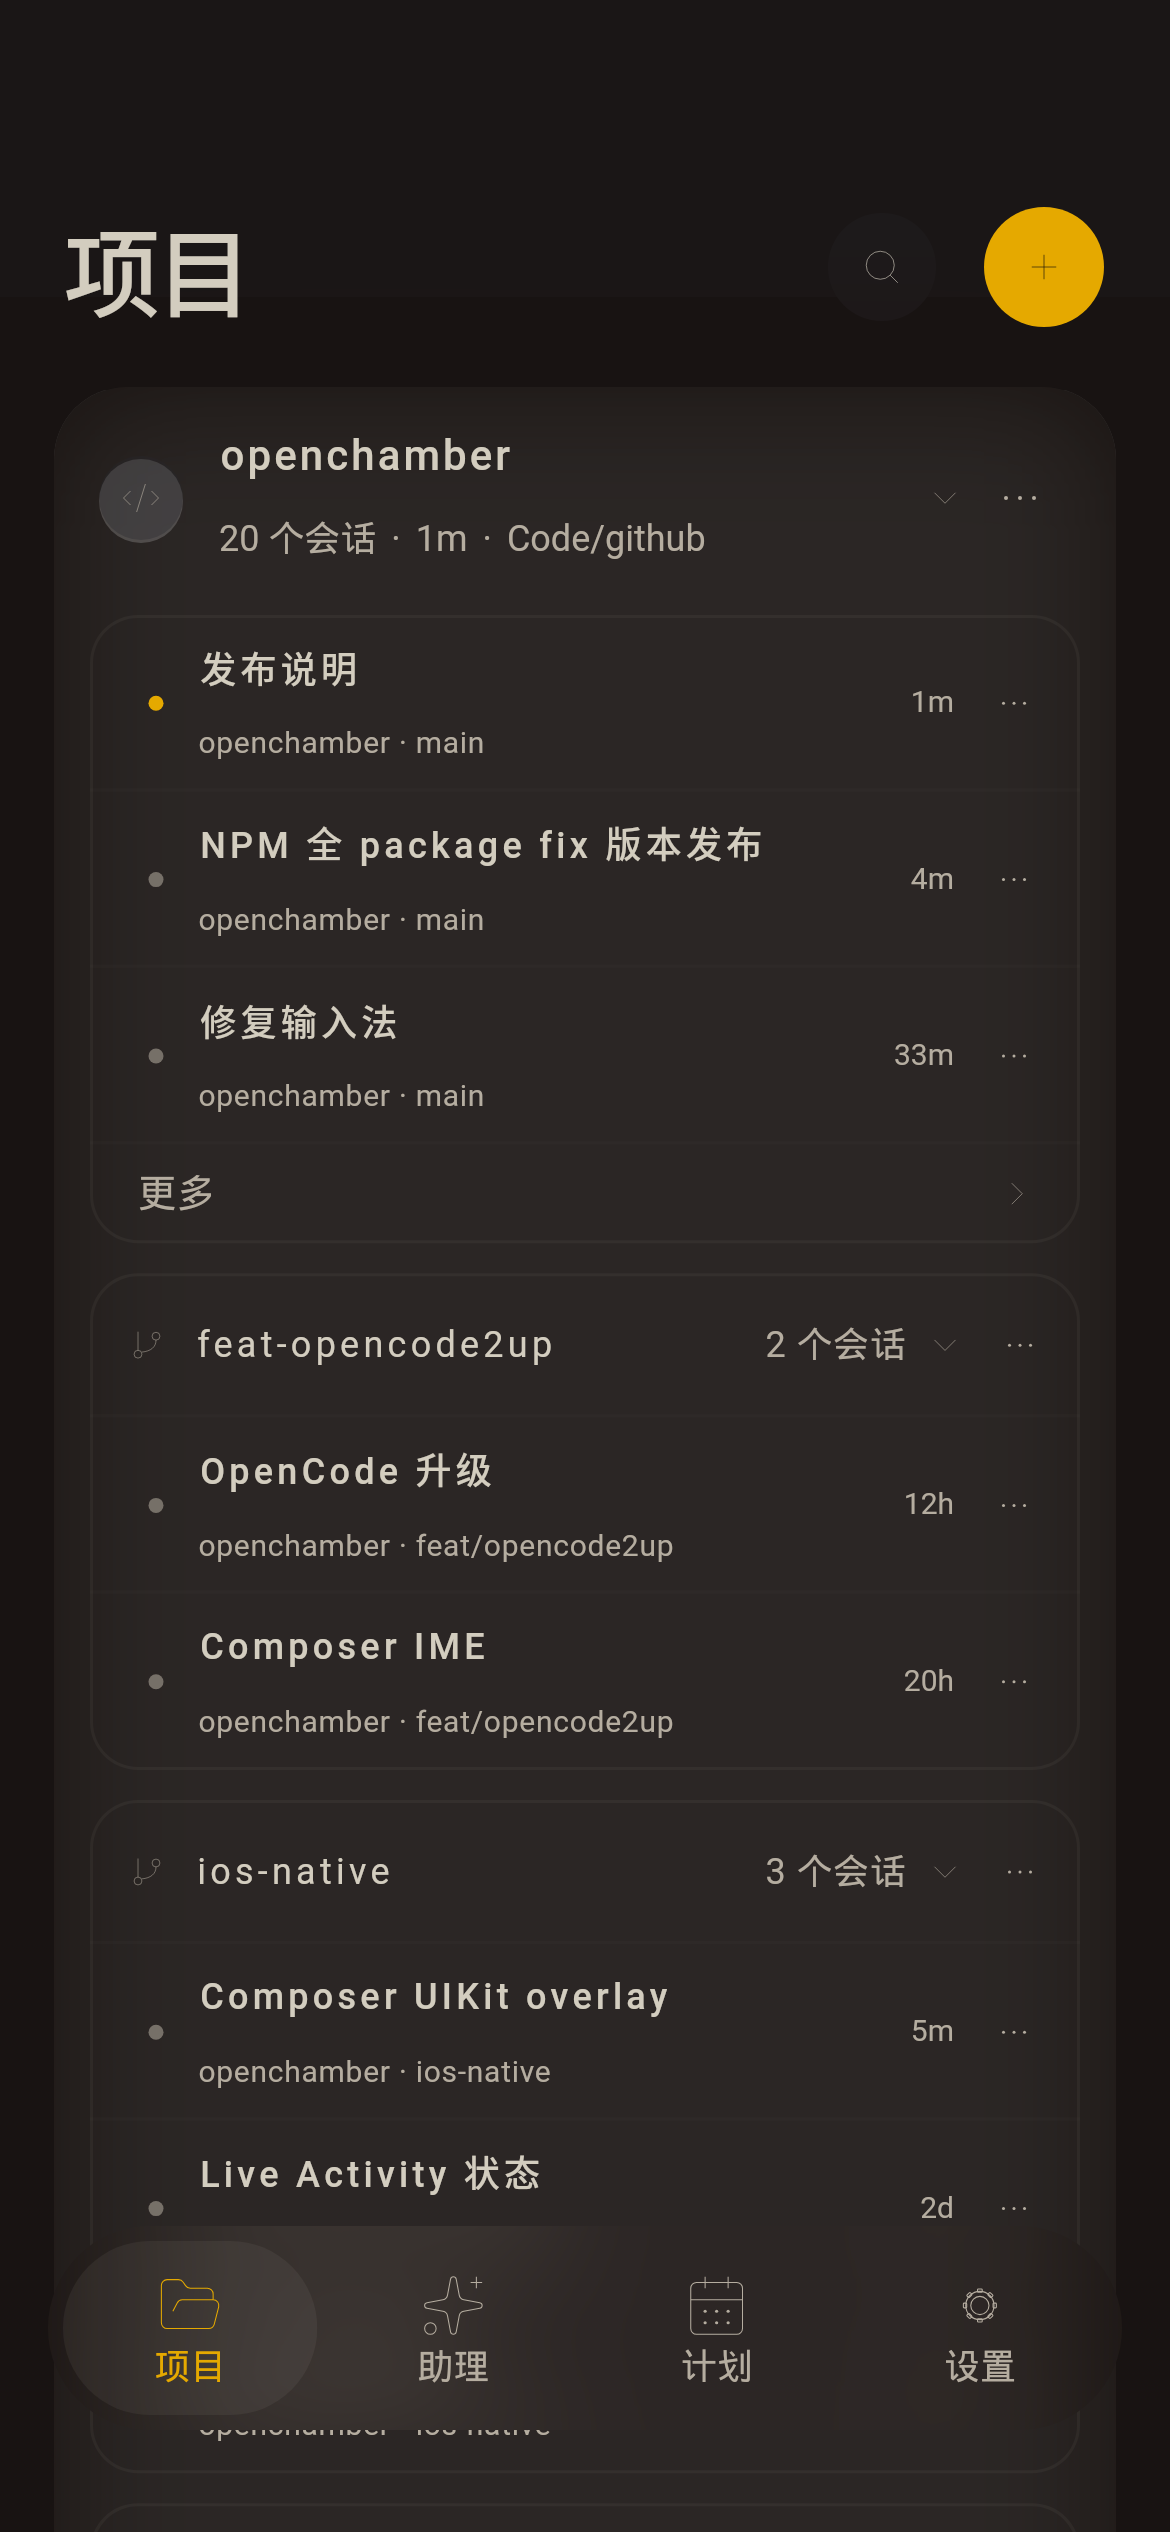
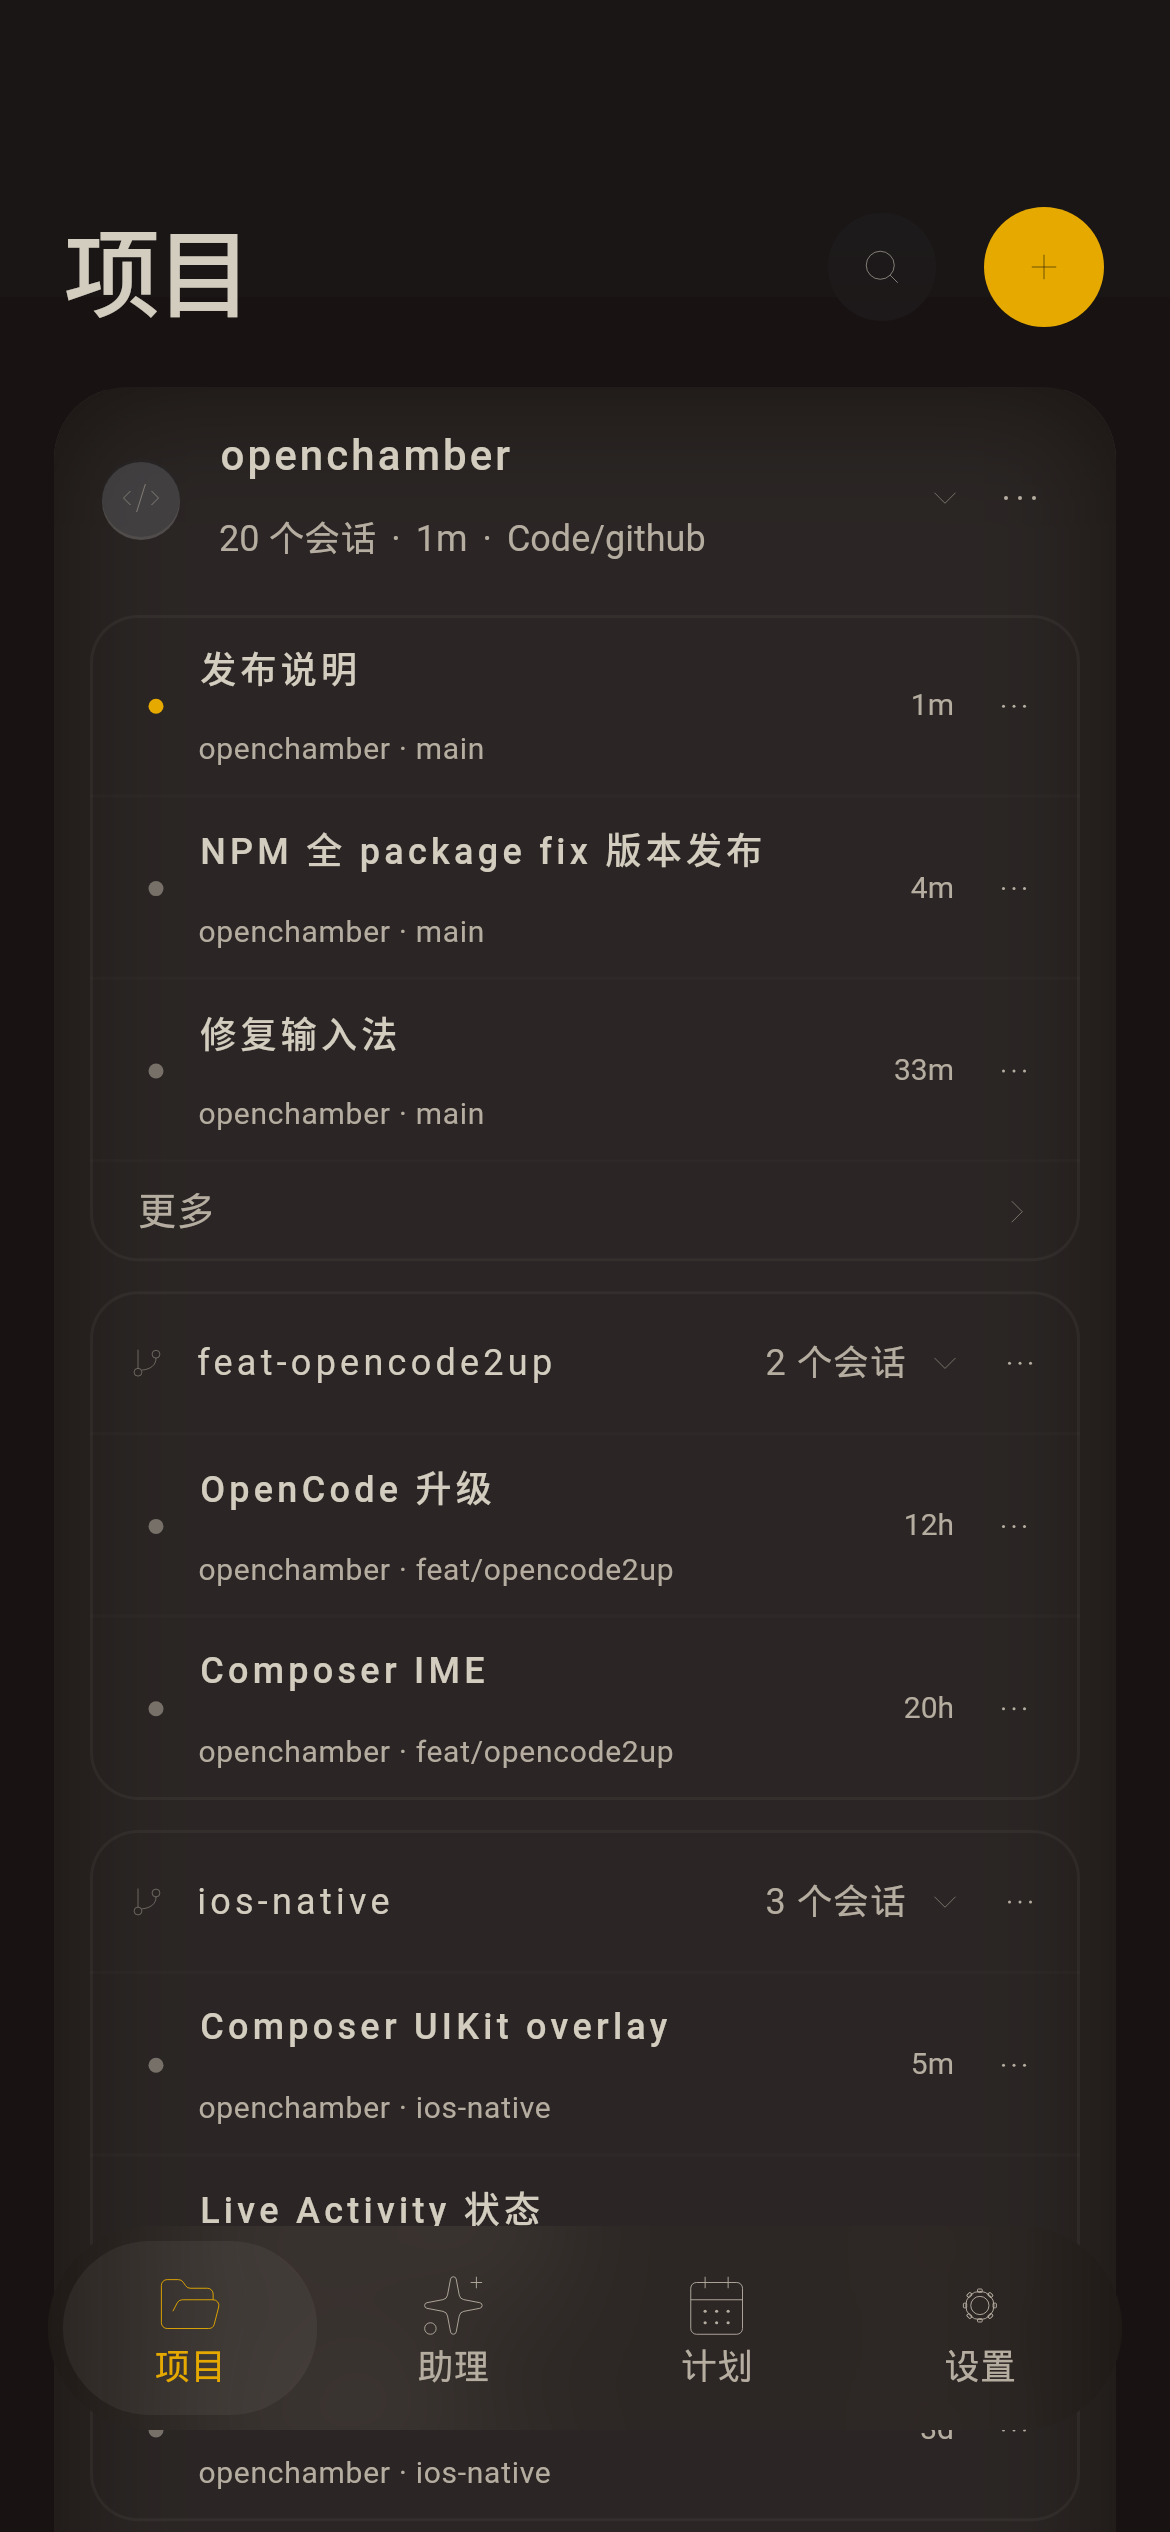
chore(flutter): recapture 02 after wake-1929 craft residual
02/scrolled/dark after title↔subtitle mt-1 air, leading 26, dock
stroke 0.32, quieter black far 3%. 04 MAE ~0.05 restored.
01/03/05/06/07/08 restored (tester noise). Not 精致.

diff --git a/docs/flutter-native-screenshots/README.md b/docs/flutter-native-screenshots/README.md
@@ -49,7 +49,8 @@ Do not pile half-lead/tracking and do not revive Noto Bold. Title↔subtitle
 gap **2 → 4** (`mt-1` after Medium ate `gap-0.5`); row visual **58.8 → 60.8**.
 Dock/header visual stroke **0.36 → 0.32** (23px box stays). Project leading
 **28 → 26**, schedule status **18 → 16** (glyph 8 → 7); hit 38 stays. Far
-quieter official-black **3% / tight 2%**. Recapture 02/04 after this dart.
+quieter official-black **3% / tight 2%**. Recapture 02 family after this dart;
+04 MAE stayed tester-noise (~0.05) so those frames were restored.
 **Not 精致.**
 
 | File | Screen |
